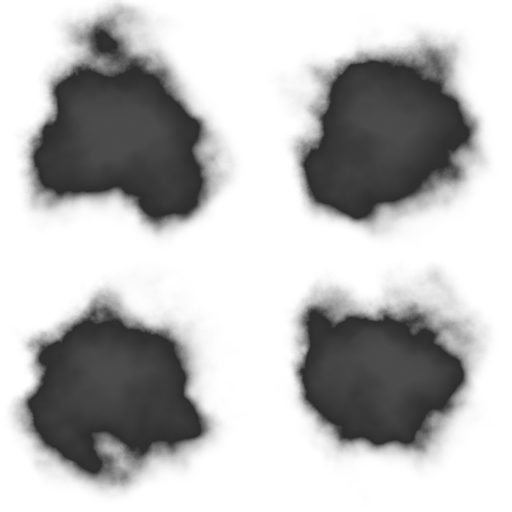
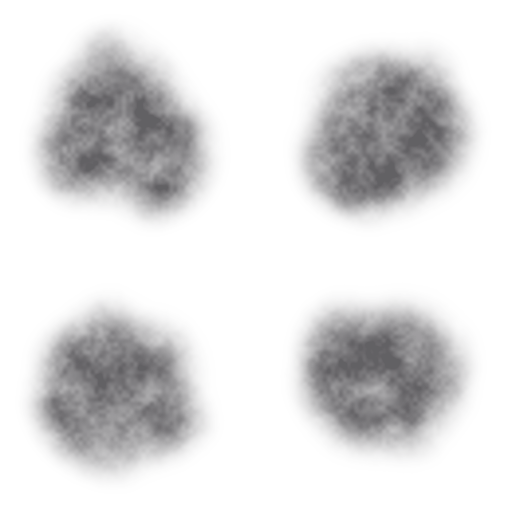
Perf: heat-aware quality ladder, lighter Ultra; soft smoke puffs; Lucy gets two orange monowires
- Thermal headroom/status drives proactive degrade and slow restore on every preset
- Ultra: render scale 0.9, MSAA 2x, cheaper bloom/DOF, fewer grass tufts
- Puff textures: soft alpha edges, fixes white blobs near rocks
- Whip: left-hand and monowire mode with always-on orange glow; ReinaKit uses both hands

Claude-Session: https://claude.ai/code/session_01YFUKGs6YRL9fWpncBbTvsT

diff --git a/Assets/Kagegan/Scripts/Core/GraphicsQuality.cs b/Assets/Kagegan/Scripts/Core/GraphicsQuality.cs
@@ -31,17 +31,41 @@ namespace Kagegan
         public static int PerfDegrade { get; private set; }
 
         /// <summary>
-        /// One more step of frame-rate rescue once the resolution is already at its floor:
-        /// lighter post-processing, fewer capsule shadows, then no MSAA / bloom. Returns false when nothing is left.
+        /// One more step of frame-rate rescue once the resolution is already at its floor (or the phone is heating up):
+        /// lighter post-processing and fewer particles, then no MSAA / fewer lights and shadows, then no bloom and
+        /// shorter grass. Works on every preset. Returns false when nothing is left.
         /// </summary>
         public static bool DegradeForPerf()
         {
-            if (Current < GraphicsPreset.High || PerfDegrade >= 3) return false;
+            if (PerfDegrade >= 3) return false;
             PerfDegrade++;
-            if (PerfDegrade == 1) ShadowCasters = Mathf.Min(ShadowCasters, 2);
-            if (PerfDegrade == 2) QualitySettings.antiAliasing = 0;
-            PostFx.Degrade(PerfDegrade);
+            ApplyDegrade();
             return true;
+        }
+
+        /// <summary>Takes one rescue step back (the phone cooled down and holds its frame rate).</summary>
+        public static bool RestoreForPerf()
+        {
+            if (PerfDegrade <= 0) return false;
+            int keep = PerfDegrade - 1;
+            float scale = CurrentRenderScale;
+            Apply(Current);          // back to the preset's own values (fires Changed: weather, shadows, grass refresh)
+            SetRenderScale(scale, false);
+            PerfDegrade = keep;
+            ApplyDegrade();
+            return true;
+        }
+
+        static void ApplyDegrade()
+        {
+            int d = PerfDegrade;
+            if (d >= 1) { ShadowCasters = Mathf.Min(ShadowCasters, 2); ParticleMul *= 0.75f; }
+            if (d >= 2) { QualitySettings.antiAliasing = 0; ShadowCasters = Mathf.Min(ShadowCasters, 1); DynamicLights = Mathf.Min(DynamicLights, 2); }
+            if (d >= 3) { ShadowCasters = 0; ParticleMul *= 0.75f; DynamicLights = Mathf.Min(DynamicLights, 1); }
+            if (ShadowCasters == 0) Shader.SetGlobalFloat("_KageCasterCount", 0f);
+            Shader.SetGlobalFloat("_KageDynLightCount", DynamicLights);
+            GrassBend.ApplyDistance();
+            PostFx.Degrade(d);
         }
 
         static PropertyInfo urpRenderScale;
@@ -153,10 +177,11 @@ namespace Kagegan
                     MaxActiveEnemies = 5; DebrisPerBreak = 10; GroundDetail = true; ShadowCasters = 4;
                     QualitySettings.antiAliasing = 2;
                     break;
-                default: // Ultra: flagship phones (full resolution, 4x MSAA, dense particles and weather)
-                    BaseRenderScale = 1f; Outlines = true; DynamicLights = 4; ParticleMul = 1.25f; WeatherMul = 1.4f;
+                default: // Ultra: flagship phones. 0.9 of a 2.6K panel is still sharper than High, and 2x MSAA instead
+                         // of 4x: flagship SoCs throttle hard after a few minutes, a lighter frame keeps them cool
+                    BaseRenderScale = 0.9f; Outlines = true; DynamicLights = 4; ParticleMul = 1.25f; WeatherMul = 1.4f;
                     MaxActiveEnemies = 5; DebrisPerBreak = 14; GroundDetail = true; ShadowCasters = 6;
-                    QualitySettings.antiAliasing = 4;
+                    QualitySettings.antiAliasing = 2;
                     break;
             }
 
@@ -219,8 +244,8 @@ namespace Kagegan
         // (120 -> 60 -> 40 -> 30). A target the phone can't hold therefore lands on 30 with uneven frames.
         // When the chosen rate isn't held for a few seconds (or the phone heats up) step down to a rate it can
         // hold - 90 or 60 - for this session only; try the higher rate again later if there is headroom.
-        static float govLow, govGood; static int govUps;
-        public static void ResetGovernor() { govLow = 0f; govGood = 0f; govUps = 0; }
+        static float govLow, govGood, heatTimer, coolTime; static int govUps, restores;
+        public static void ResetGovernor() { govLow = 0f; govGood = 0f; govUps = 0; heatTimer = coolTime = 0f; restores = 0; }
 
         void Governor(float dt)
         {
@@ -243,6 +268,25 @@ namespace Kagegan
                     govLow = govGood = 0f;
                 }
             }
+            // Heat (Android ADPF advice): shed load *before* the OS throttles the clocks, which halves the frame rate
+            // for the rest of the session. Headroom >= 0.85 or "moderate" status: one rescue step every 8 s.
+            // Cooled down (headroom < 0.65, status light or none) and holding the rate: undo one step every 25 s.
+            float head = PerfProbe.Headroom;
+            bool hot = thermal >= 2 || (!float.IsNaN(head) && head >= 0.85f);
+            bool cool = thermal <= 1 && (float.IsNaN(head) || head < 0.65f);
+            heatTimer += dt;
+            if (hot)
+            {
+                coolTime = 0f;
+                if (heatTimer >= 8f) { heatTimer = 0f; GraphicsQuality.DegradeForPerf(); }
+            }
+            else if (cool && GraphicsQuality.PerfDegrade > 0 && restores < 4 && Fps >= Mathf.Min(tgt, 60) * 0.95f)
+            {
+                coolTime += dt;
+                if (coolTime >= 25f) { coolTime = 0f; restores++; GraphicsQuality.RestoreForPerf(); } // capped: no endless ping-pong
+            }
+            else coolTime = 0f;
+
             if (tgt < wanted && thermal < 2 && govUps < 2)
             {
                 if (Fps > tgt * 0.97f) govGood += dt; else govGood = 0f;

diff --git a/Assets/Kagegan/Scripts/Visual/Whip.cs b/Assets/Kagegan/Scripts/Visual/Whip.cs
@@ -12,7 +12,9 @@ namespace Kagegan
     public class Whip : MonoBehaviour
     {
         const int N = 20;
-        const float RestLen = 2.2f, HandleLen = 0.24f, MaxLen = 5.2f;
+        const float RestLen = 2.2f, MaxLen = 5.2f;
+        float HandleLen = 0.24f;
+        bool mono;
 
         Fighter f;
         Transform hand, forearm;
@@ -34,14 +36,20 @@ namespace Kagegan
 
         float floorY, floorCheck;
 
-        public static Whip Attach(Fighter fighter, Color glow)
+        /// <summary>
+        /// Attaches a whip to the right (or left) hand. <paramref name="monowire"/>: a glowing filament that runs out of
+        /// the fingers (no leather, no handle) and keeps a faint glow even at rest.
+        /// </summary>
+        public static Whip Attach(Fighter fighter, Color glow, bool leftHand = false, bool monowire = false)
         {
-            var go = new GameObject("Whip");
+            var go = new GameObject(leftHand ? "WhipL" : "Whip");
             go.transform.SetParent(fighter.transform, false);
             var w = go.AddComponent<Whip>();
-            w.f = fighter; w.glowColor = glow;
-            w.hand = fighter.Rig.Bones[(int)B.HandR];
-            w.forearm = fighter.Rig.Bones[(int)B.LArmR];
+            w.f = fighter; w.glowColor = glow; w.mono = monowire;
+            if (monowire) w.HandleLen = 0.06f;
+            w.hand = fighter.Rig.Bones[(int)(leftHand ? B.HandL : B.HandR)];
+            w.forearm = fighter.Rig.Bones[(int)(leftHand ? B.LArmL : B.LArmR)];
+            if (w.hand == null || w.forearm == null) { Destroy(go); return null; }
             w.Build();
             return w;
         }
@@ -66,12 +74,24 @@ namespace Kagegan
 
         void Build()
         {
+            if (mono)
+            {
+                // monowire: a thin hot filament, dark-orange core with a bright tip, inside a soft additive halo
+                Color core = glowColor;
+                lash = Line("Lash", Mat.FxAlphaSolid, N, new AnimationCurve(new Keyframe(0, 0.016f), new Keyframe(0.7f, 0.011f), new Keyframe(1, 0.005f)), Color.white);
+                lash.startColor = new Color(core.r * 0.75f, core.g * 0.55f, core.b * 0.4f, 1f);
+                lash.endColor = Color.Lerp(core, Color.white, 0.25f);
+                handle = Line("Handle", Mat.FxAddSolid, 4, new AnimationCurve(new Keyframe(0, 0.035f), new Keyframe(1, 0.02f)), core * 0.8f);
+                glow = Line("LashGlow", Mat.FxAddSolid, N, new AnimationCurve(new Keyframe(0, 0.06f), new Keyframe(1, 0.028f)), Color.clear);
+                glow.enabled = false;
+                return;
+            }
             // braided leather: dark at the handle, slightly lighter towards the fall and cracker
             lash = Line("Lash", Mat.FxAlphaSolid, N, new AnimationCurve(new Keyframe(0, 0.034f), new Keyframe(0.6f, 0.02f), new Keyframe(1, 0.007f)), Color.white);
             lash.startColor = new Color(0.09f, 0.07f, 0.06f, 1f);
             lash.endColor = new Color(0.2f, 0.17f, 0.14f, 1f);
             handle = Line("Handle", Mat.FxAlphaSolid, 4, new AnimationCurve(new Keyframe(0, 0.05f), new Keyframe(0.15f, 0.06f), new Keyframe(0.2f, 0.045f), new Keyframe(1, 0.04f)), new Color(0.06f, 0.06f, 0.07f, 1f));
-            handle.startColor = new Color(0.25f, 0.9f, 0.45f, 1f); // lit pommel ring
+            handle.startColor = new Color(glowColor.r * 0.7f, glowColor.g * 0.7f, glowColor.b * 0.7f, 1f); // lit pommel ring
             glow = Line("LashGlow", Mat.FxAddSolid, N, new AnimationCurve(new Keyframe(0, 0.09f), new Keyframe(1, 0.04f)), Color.clear);
             glow.enabled = false;
         }
@@ -245,7 +265,9 @@ namespace Kagegan
             handle.SetPosition(3, basePos);
             lash.SetPositions(p);
 
-            glowAmt = Mathf.MoveTowards(glowAmt, 0f, dt * 2.6f);
+            // a monowire never goes fully dark: a faint shimmering halo shows where the strings are
+            float rest = mono ? 0.22f + 0.06f * Mathf.Sin(Time.time * 7f + (hand.GetInstanceID() & 7)) : 0f;
+            glowAmt = Mathf.MoveTowards(glowAmt, rest, dt * 2.6f);
             bool on = glowAmt > 0.01f;
             if (glow.enabled != on) glow.enabled = on;
             if (on)

diff --git a/Assets/Kagegan/Scripts/Characters/ReinaKit.cs b/Assets/Kagegan/Scripts/Characters/ReinaKit.cs
@@ -11,7 +11,7 @@ namespace Kagegan
     /// </summary>
     public class ReinaKit : Kit
     {
-        public static readonly Color Wire = new Color(0.35f, 1f, 0.55f);    // monowire glow (acid green)
+        public static readonly Color Wire = new Color(1f, 0.52f, 0.12f);    // monowire glow (hot orange, like the anime)
         public static readonly Color Hack = new Color(0.55f, 1f, 0.35f);
         public static readonly Color Over = new Color(1f, 0.3f, 0.75f);     // overload (magenta)
 
@@ -116,13 +116,20 @@ namespace Kagegan
 
         Transform Hand => F.Rig.Bones[(int)B.HandR];
 
-        // the monowire is a physical whip in her right hand (verlet lash); the old VFX line is the fallback
-        Whip whip;
+        Transform HandL => F.Rig.Bones[(int)B.HandL];
+
+        // two monowires, one from each hand (verlet lashes); the old VFX line is the fallback
+        Whip whip, whipL;
 
         public override void Tick(float dt)
         {
             base.Tick(dt);
-            if (whip == null && F != null && F.Rig != null && Hand != null) whip = Whip.Attach(F, Wire);
+            if (whip == null && F != null && F.Rig != null && Hand != null) whip = Whip.Attach(F, Wire, false, true);
+            if (whipL == null && F != null && F.Rig != null && HandL != null && !leftFailed)
+            {
+                whipL = Whip.Attach(F, Wire, true, true);
+                leftFailed = whipL == null;
+            }
             if (Ult == null || F == null) return;
             bool duo = Capri != null && Capri.Present;
             Ult.Name = duo ? OverdriveName : baseUltName;
@@ -136,17 +143,29 @@ namespace Kagegan
             }
         }
         float aiCapriAt;
+        bool leftFailed;
 
         void Lash(Vector3 to, Color c, float life, float sweep)
         {
             // called on the contact frame: a fast roll so the tip snaps almost at once (a real cracker breaks the sound barrier)
-            if (whip != null) whip.Strike(to, Mathf.Clamp(life * 0.8f, 0.18f, 0.32f), sweep);
+            // a swing from the left (sweep < 0) comes from the left hand; an overhead one (sweep 0) uses both wires
+            float dur = Mathf.Clamp(life * 0.8f, 0.18f, 0.32f);
+            var w = sweep < -0.01f && whipL != null ? whipL : whip;
+            if (w != null)
+            {
+                w.Strike(to, dur, sweep);
+                if (Mathf.Abs(sweep) < 0.01f && whipL != null && w != whipL) whipL.Strike(to + Vector3.up * 0.15f, dur * 1.1f, -0.4f);
+            }
             else Fx.Wire(Hand, to, c, life, sweep);
         }
 
         void Tether(Vector3 to)
         {
-            if (whip != null) whip.Hold(to);
+            if (whip != null)
+            {
+                whip.Hold(to);
+                if (whipL != null) whipL.Hold(to + Vector3.up * 0.2f); // both wires bind the target
+            }
             else Fx.Wire(Hand, to, Wire, 0.06f, 0f);
         }
 

diff --git a/Assets/Kagegan/Scripts/Visual/PostFx.cs b/Assets/Kagegan/Scripts/Visual/PostFx.cs
@@ -45,7 +45,7 @@ namespace Kagegan
             if (asset != null)
             {
                 asset.supportsHDR = on;
-                asset.msaaSampleCount = ultra ? 4 : (on ? 2 : 1);
+                asset.msaaSampleCount = on ? 2 : 1; // 4x on a 2.6K panel cost a lot of bandwidth (and heat) for little gain
                 asset.supportsCameraDepthTexture = on; // depth of field reads it
             }
             if (cam == null) return;
@@ -69,13 +69,13 @@ namespace Kagegan
             bloom.intensity.value = ultra ? 0.65f : 0.5f;
             bloom.threshold.value = 1.25f;
             bloom.scatter.value = 0.62f;
-            bloom.highQualityFiltering.value = ultra;
-            bloom.maxIterations.value = ultra ? 6 : 5;
+            bloom.highQualityFiltering.value = false; // HQ (bicubic) upsampling is a known mobile cost
+            bloom.maxIterations.value = 5;
             vignette.intensity.value = 0.22f;
             vignette.smoothness.value = 0.45f;
             dof.mode.value = DepthOfFieldMode.Gaussian;
             dof.gaussianMaxRadius.value = ultra ? 1.1f : 0.8f;
-            dof.highQualitySampling.value = ultra;
+            dof.highQualitySampling.value = false;
             chroma.intensity.value = 0f;
             // film-like split: cool shadows, warm highlights (baked into the grading LUT, no extra pass)
             smh.shadows.value = new Vector4(0.96f, 0.99f, 1.07f, 0f);

diff --git a/Assets/Kagegan/Scripts/Characters/Roster.cs b/Assets/Kagegan/Scripts/Characters/Roster.cs
@@ -68,10 +68,10 @@ namespace Kagegan
                 case CharacterId.Reina:
                     return new Look
                     {
-                        // original design: crimson ponytail, graphite tech-suit with acid-green circuit accents
-                        skin = new Color(0.95f, 0.8f, 0.7f), top = new Color(0.12f, 0.13f, 0.15f), sleeve = new Color(0.12f, 0.13f, 0.15f), top2 = new Color(0.35f, 1f, 0.55f),
+                        // original design: crimson ponytail, graphite tech-suit with hot-orange circuit accents
+                        skin = new Color(0.95f, 0.8f, 0.7f), top = new Color(0.12f, 0.13f, 0.15f), sleeve = new Color(0.12f, 0.13f, 0.15f), top2 = new Color(1f, 0.52f, 0.12f),
                         pants = new Color(0.1f, 0.1f, 0.12f), shoes = new Color(0.2f, 0.22f, 0.24f), hair = new Color(0.55f, 0.07f, 0.12f),
-                        eye = new Color(0.4f, 1f, 0.6f), accent = new Color(0.35f, 1f, 0.55f), hairStyle = HairStyle.LongStraight, hairLength = 0.8f,
+                        eye = new Color(0.4f, 1f, 0.6f), accent = new Color(1f, 0.52f, 0.12f), hairStyle = HairStyle.LongStraight, hairLength = 0.8f,
                         bareForearms = false, eyeGlow = 0.7f, height = 0.97f, bulk = 0.92f, model = "lucy"
                     };
                 default:

diff --git a/Assets/Kagegan/Scripts/Core/PerfProbe.cs b/Assets/Kagegan/Scripts/Core/PerfProbe.cs
@@ -42,6 +42,8 @@ namespace Kagegan
         int thermal = -1;
         /// <summary>Android thermal status (0 none .. 6 shutdown, -1 unknown), for the frame-rate governor.</summary>
         public static int Thermal { get; private set; } = -1;
+        /// <summary>Android thermal headroom forecast 10 s ahead (1.0 = throttling starts; NaN = unknown).</summary>
+        public static float Headroom { get; private set; } = float.NaN;
         bool envBroken;
         int sdk = -1;
 
@@ -326,7 +328,7 @@ namespace Kagegan
                             thermal = pm.Call<int>("getCurrentThermalStatus");
                             Thermal = thermal;
                             // forecast 10 s ahead; 1.0 = the phone starts throttling
-                            if (sdk >= 30) headroom = pm.Call<float>("getThermalHeadroom", 10);
+                            if (sdk >= 30) { headroom = pm.Call<float>("getThermalHeadroom", 10); Headroom = headroom; }
                         }
                 }
             }

diff --git a/Assets/Kagegan/Scripts/World/Arena.cs b/Assets/Kagegan/Scripts/World/Arena.cs
@@ -1014,7 +1014,7 @@ namespace Kagegan
                 case GraphicsPreset.Low: count /= 3; blades = 4; break;
                 case GraphicsPreset.Medium: blades = 7; break;
                 case GraphicsPreset.High: count *= 2; blades = 9; break;
-                default: count *= 3; blades = 10; break;
+                default: count = count * 5 / 2; blades = 9; break; // was x3 / 10 blades: ~25% fewer triangles
             }
             count = Mathf.Max(20, Mathf.RoundToInt(count * GrassBend.DensityMul));
             bool low = GraphicsQuality.Current == GraphicsPreset.Low;

diff --git a/Assets/Kagegan/Scripts/World/GrassBend.cs b/Assets/Kagegan/Scripts/World/GrassBend.cs
@@ -91,6 +91,7 @@ namespace Kagegan
                 default: far = 44f; break;
             }
             far *= DistanceMul;
+            if (GraphicsQuality.PerfDegrade >= 3) far *= 0.7f; // heat rescue: fewer far blades to shade
             Shader.SetGlobalVector(IdFade, new Vector4(far * 0.7f, far, 0f, 0f));
         }
 
